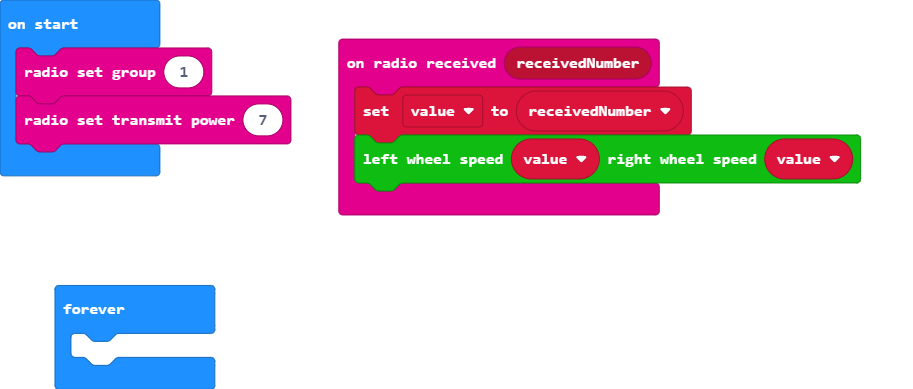
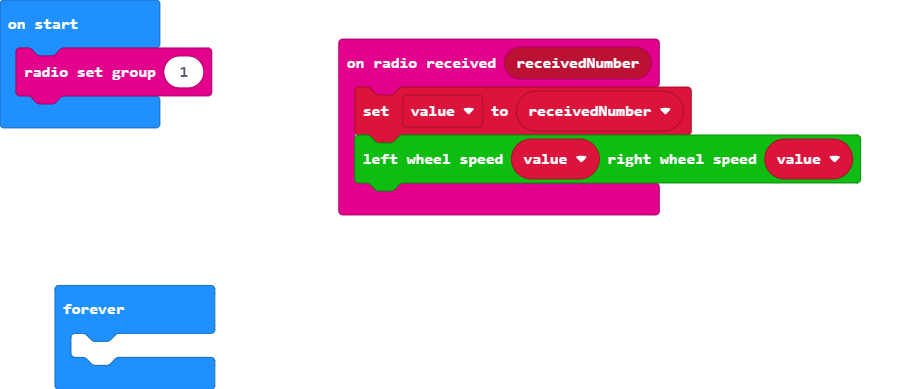
Update main.blocks, main.ts

Changed region(s): [[0.0, 0.2468, 0.3373, 0.4627]]

diff --git a/main.ts b/main.ts
@@ -4,7 +4,6 @@ radio.onReceivedNumber(function (receivedNumber) {
 })
 let value = 0
 radio.setGroup(1)
-radio.setTransmitPower(7)
 basic.forever(function () {
 	
 })
